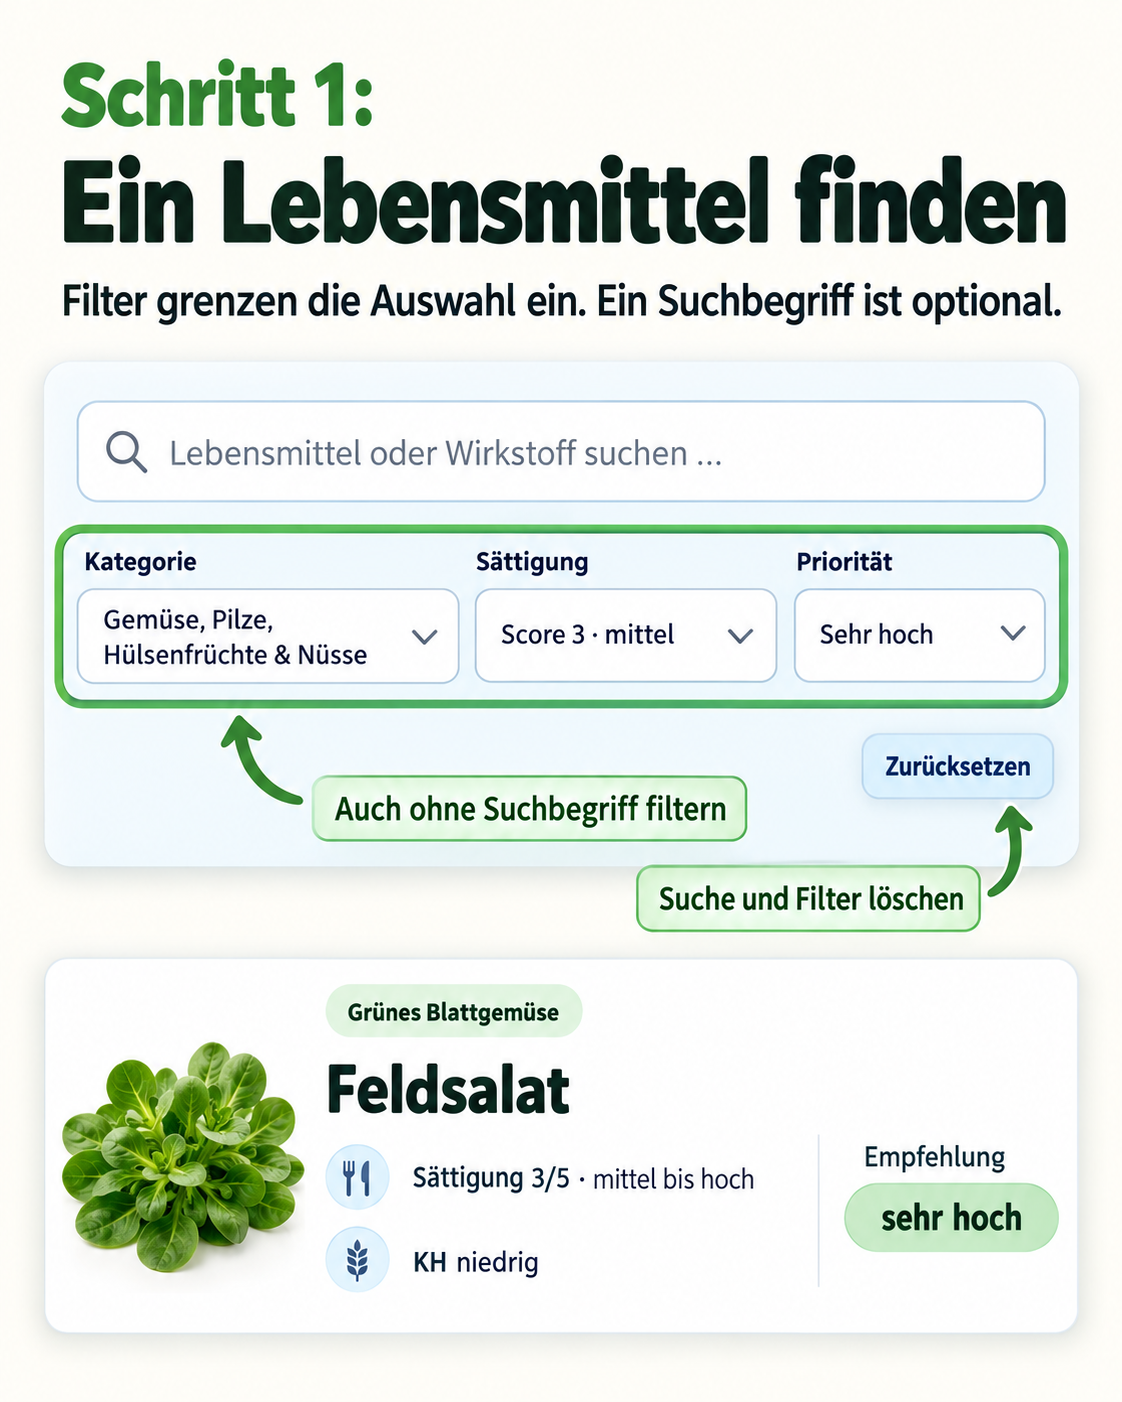
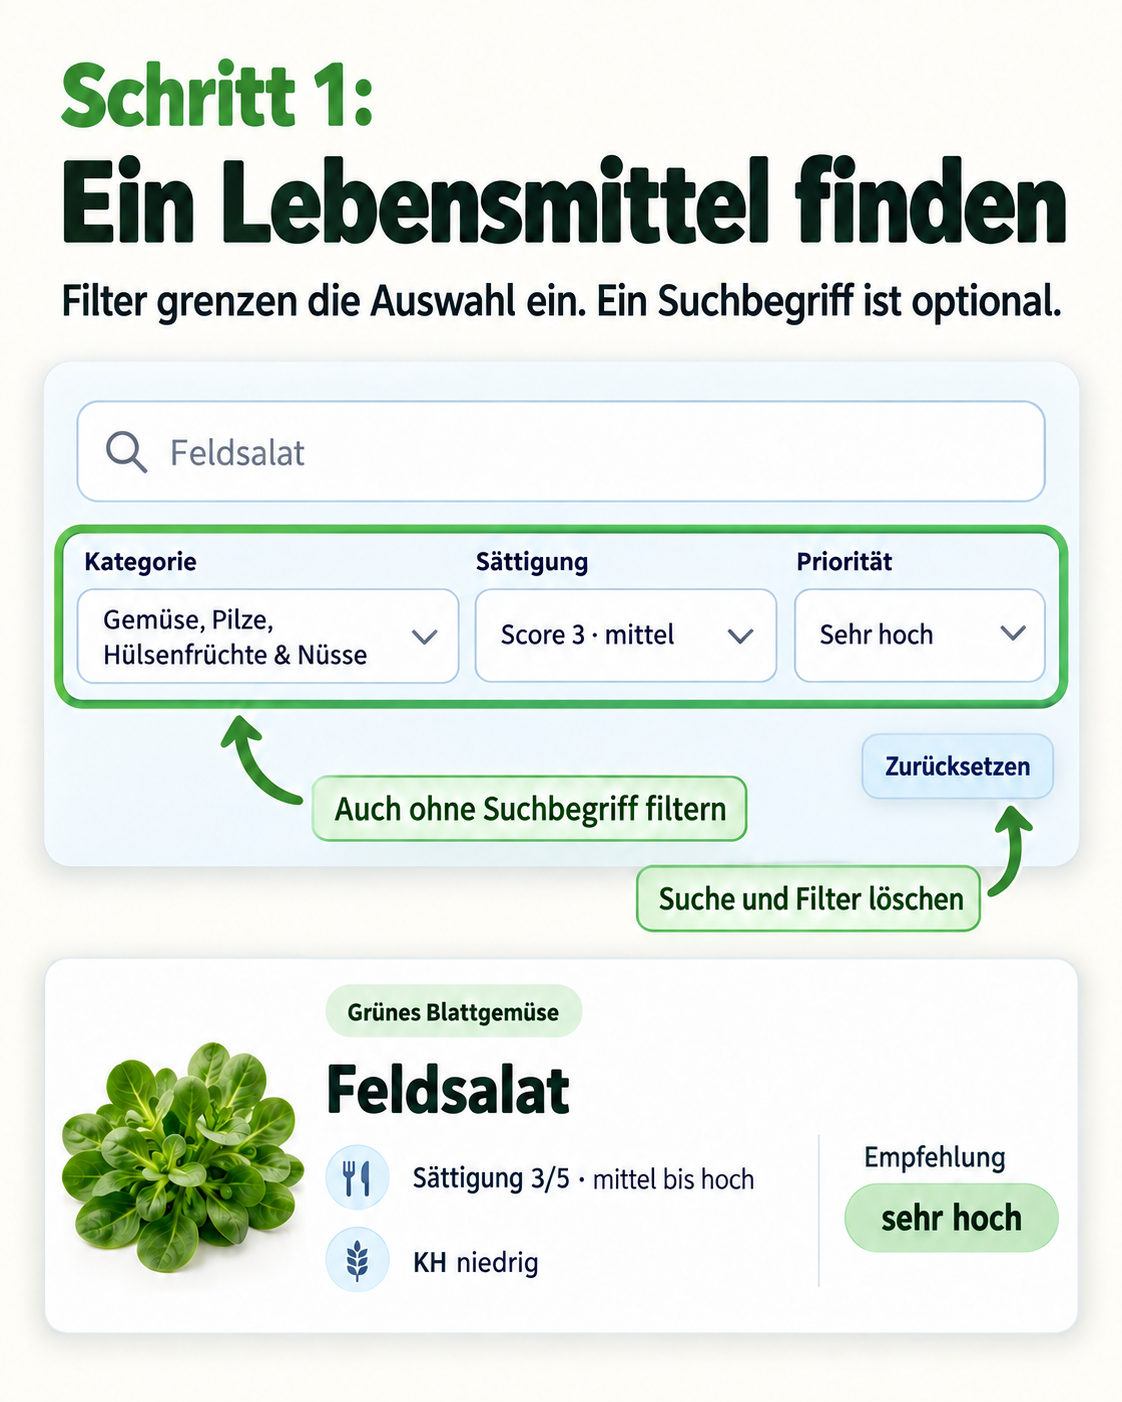
Show Feldsalat in food guide search illustration

diff --git a/app.js b/app.js
@@ -2,7 +2,7 @@
   "use strict";
 
   const { foods, meals, sources, foodNames = [] } = window.APP_DATA;
-  const appVersion = "meal-guide-design-20261013-1";
+  const appVersion = "food-guide-search-20261013-1";
   const appVersionFile = "app-version.json";
   const appRefreshParam = "appRefresh";
   const appRefreshSessionKey = "lebensmitteleinkauf:app-refresh-version:v1";
@@ -55,7 +55,7 @@
   };
 
   const foodGuideImages = {
-    1: { src: "assets/food-guide/step-1.png?v=food-guide-20261013-1", alt: "Bildanleitung zu Lebensmittel-Punkt 1: Ein Lebensmittel finden" },
+    1: { src: "assets/food-guide/step-1.png?v=food-guide-search-20261013-1", alt: "Bildanleitung zu Lebensmittel-Punkt 1: Ein Lebensmittel finden" },
     2: { src: "assets/food-guide/step-2.png?v=food-guide-20261013-1", alt: "Bildanleitung zu Lebensmittel-Punkt 2: Die Lebensmittelkarte kennenlernen" },
     3: { src: "assets/food-guide/step-3.png?v=food-guide-20261013-1", alt: "Bildanleitung zu Lebensmittel-Punkt 3: Mehr erfahren" },
     4: { src: "assets/food-guide/step-4.png?v=food-guide-20261013-1", alt: "Bildanleitung zu Lebensmittel-Punkt 4: Passende Mahlzeiten finden" },

diff --git a/index.html b/index.html
@@ -575,6 +575,6 @@ Nur bei zu langer Anmeldedauer auf Anmeldung erneuern klicken.</span>
       document.write('<script src="data.js?v=' + Date.now() + '"><\/script>');
     </script>
     <script src="vendor/msal-browser.min.js?v=2.38.3"></script>
-    <script src="app.js?v=meal-guide-design-20261013-1"></script>
+    <script src="app.js?v=food-guide-search-20261013-1"></script>
   </body>
 </html>
